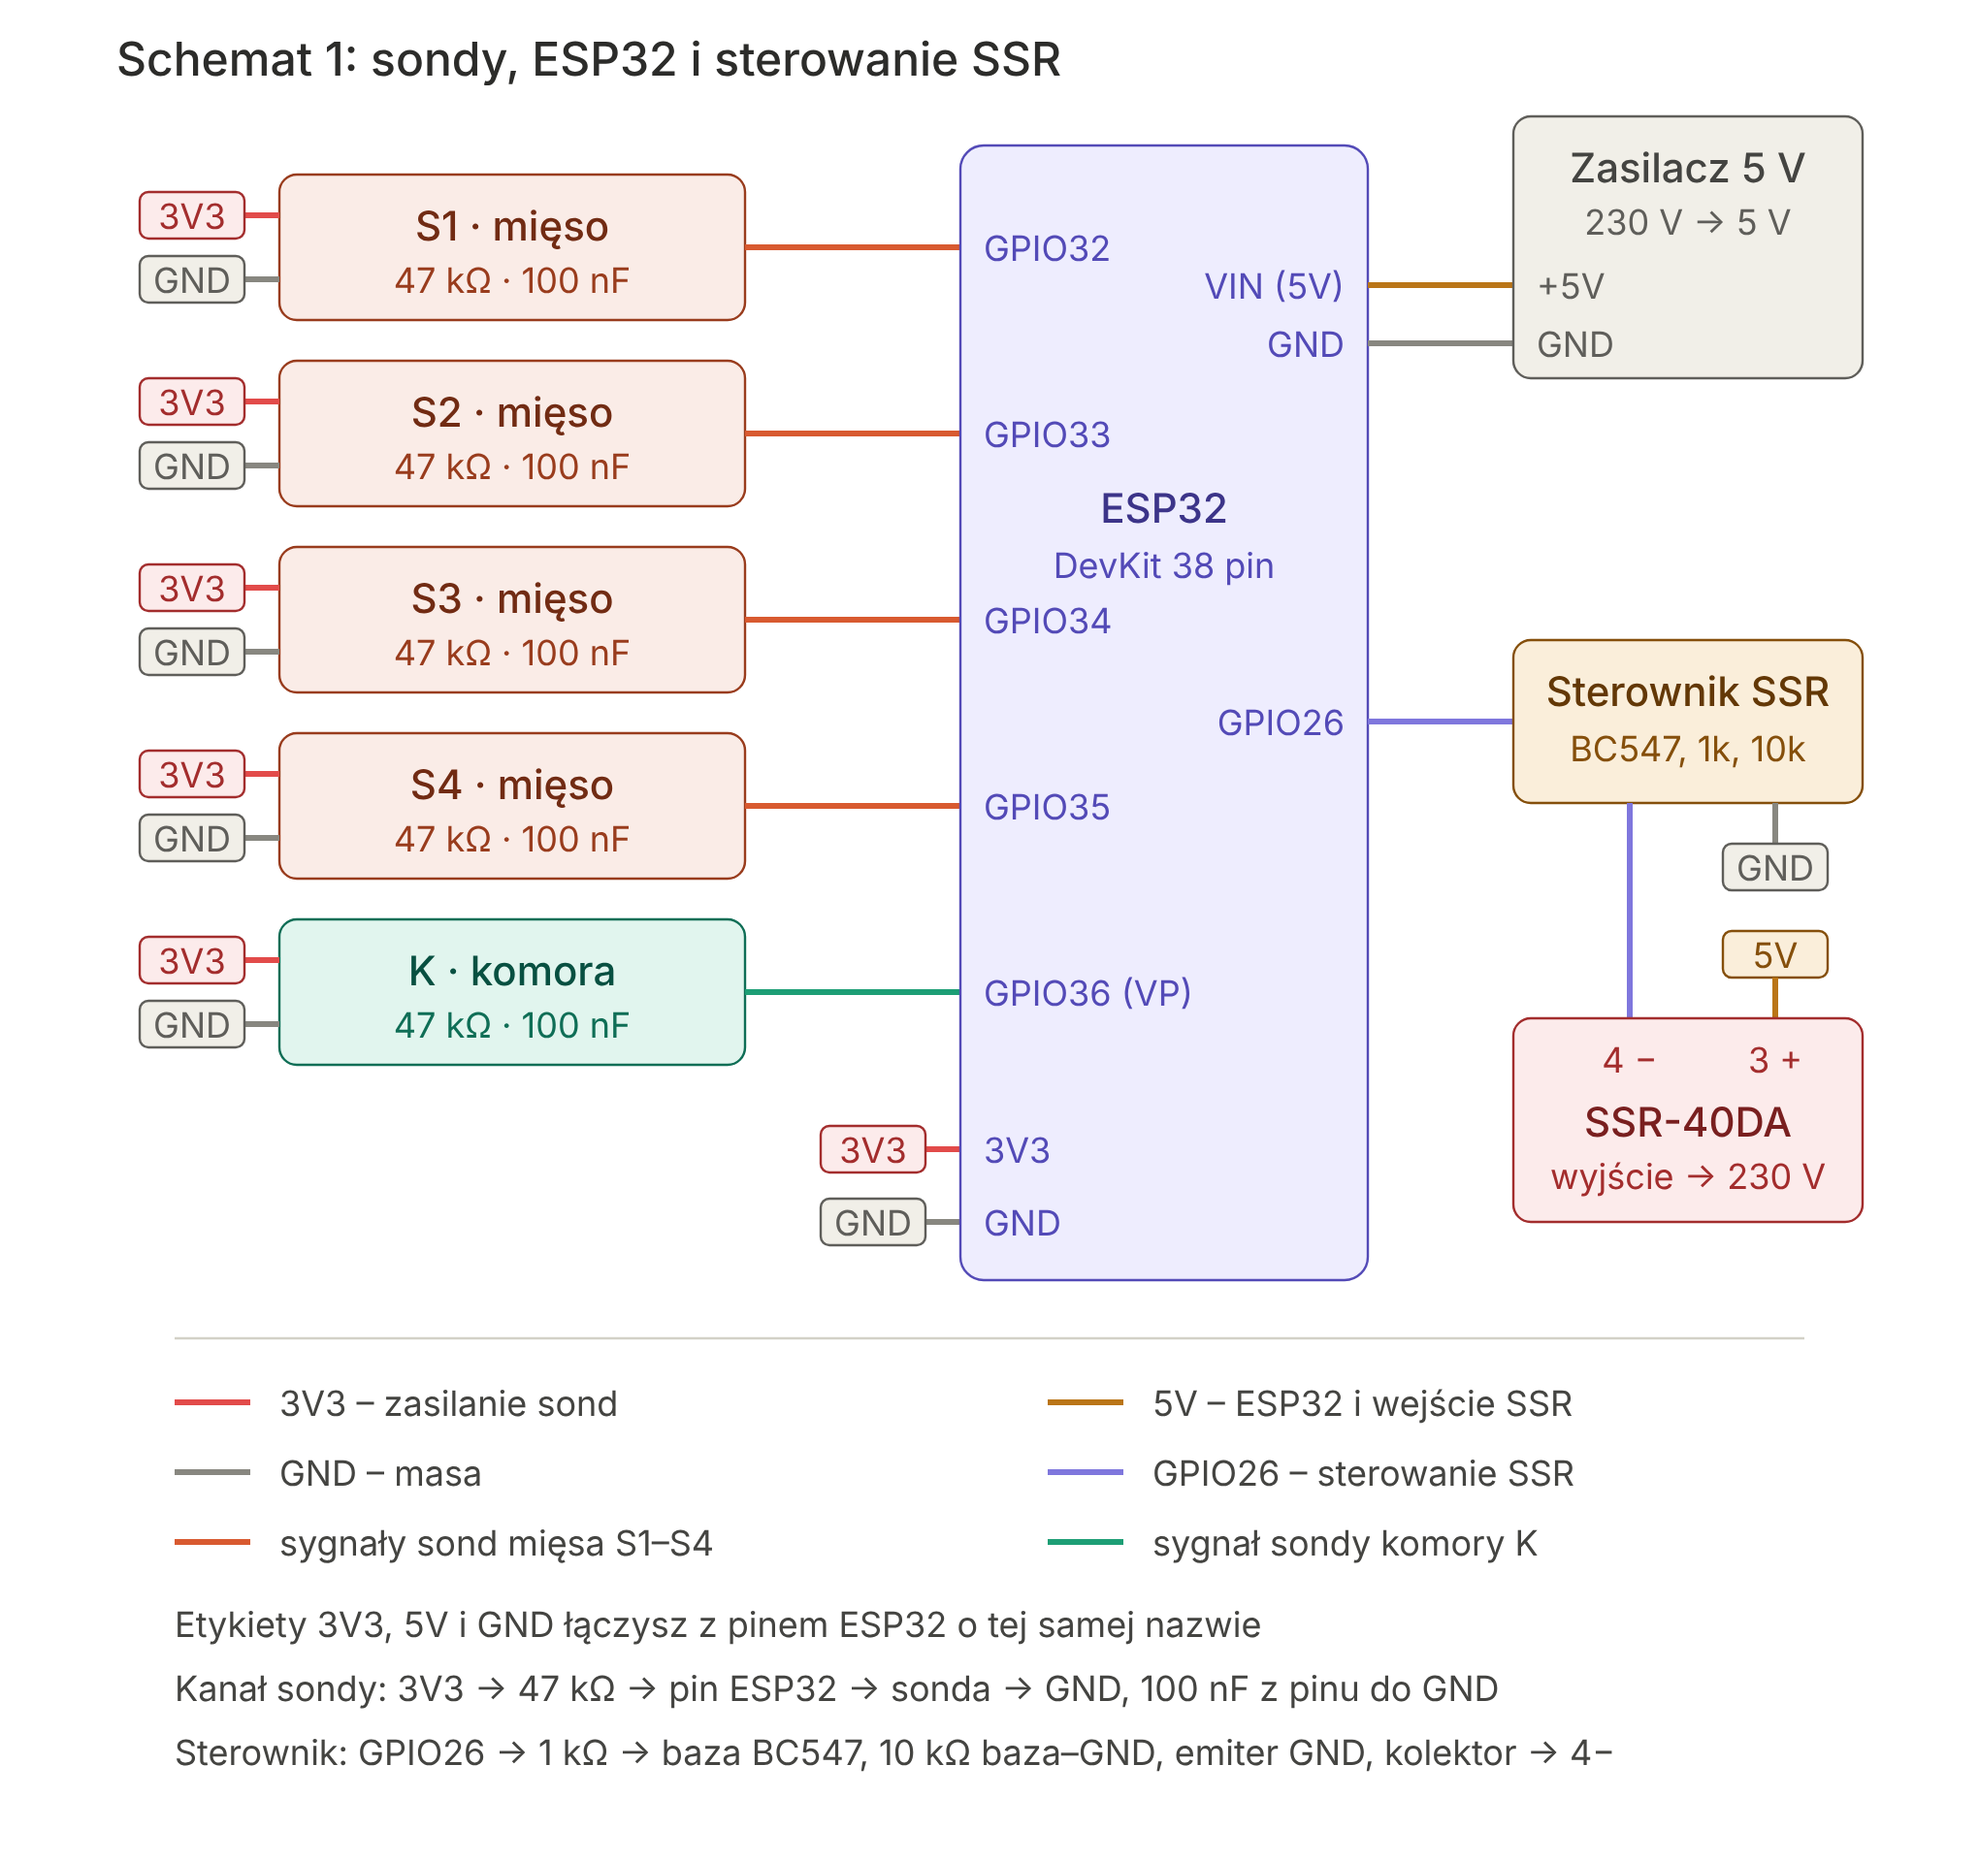
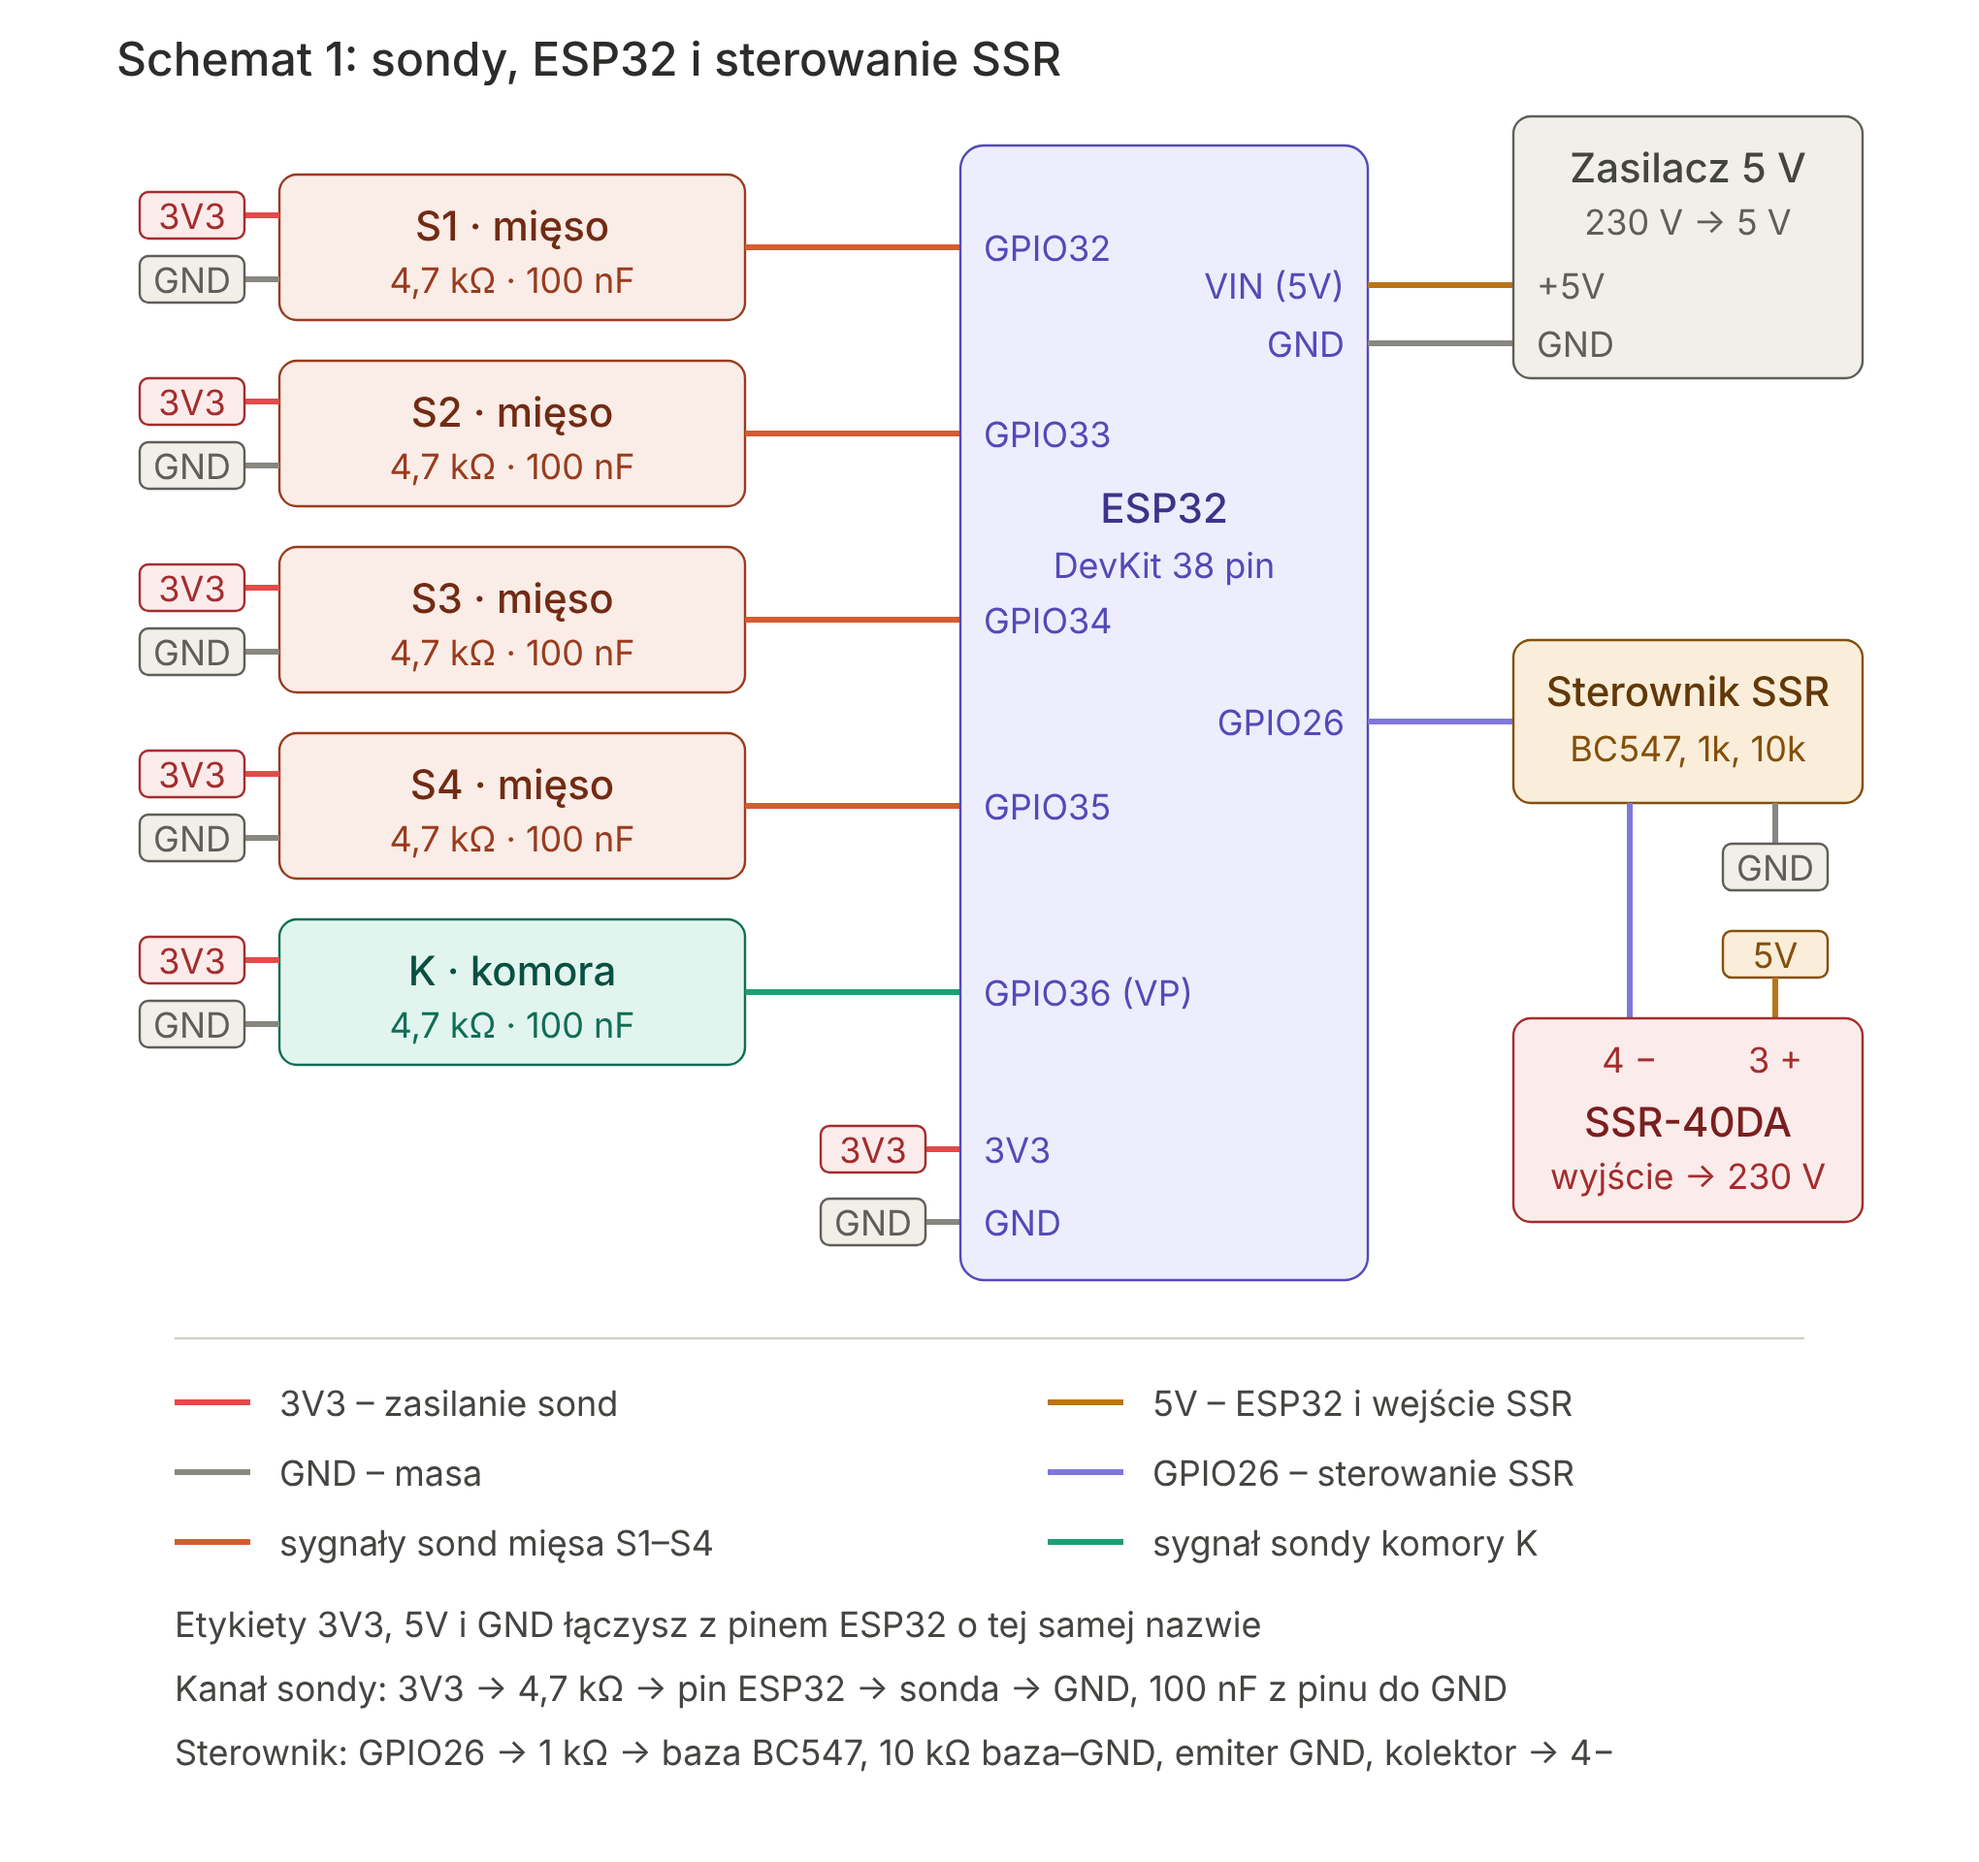
Sondy NTC 10 kΩ / B 3435: rezystory 4,7 kΩ i nowa krzywa domyślna
Claude-Session: https://claude.ai/code/session_018uVMYKUCZqiDbj1nTW6sfr

diff --git a/index.html b/index.html
@@ -894,7 +894,7 @@ function calPoint(t){
 $$('[data-cal]').forEach(function(b){ b.onclick = function(){ calPoint(+b.getAttribute('data-cal')); }; });
 $('#btnCalT').onclick = function(){ var t = parseFloat(String($('#calT').value).replace(',', '.')); if (isNaN(t) || t < -5 || t > 150){ $('#calMsg').textContent = 'Wpisz temperaturę od −5 do 150 °C.'; return; } calPoint(t); };
 $('#btnCalReset').onclick = function(){
-  confirmBox('Przywrócić kalibrację fabryczną?', 'Wszystkie sondy wrócą do krzywej 100 kΩ / B 3950.', 'Przywróć', 'bad').then(function(ok){
+  confirmBox('Przywrócić kalibrację fabryczną?', 'Wszystkie sondy wrócą do krzywej domyślnej (NTC 10 kΩ, B 3435).', 'Przywróć', 'bad').then(function(ok){
     if (ok) api('/api/cal?reset=1').then(function(r){ $('#calMsg').textContent = r.msg; loadCal(); }, function(){});
   });
 };

diff --git a/README.md b/README.md
@@ -2,7 +2,7 @@
 
 Sterownik wędzarni na ESP32 i aplikacja na tablet z Androidem:
 
-- 4 sondy mięsa i 1 sonda komory (NTC, np. Sonoff MPS01),
+- 4 sondy mięsa i 1 sonda komory (NTC 10 kΩ / B 3435, np. sondy zgodne z ThermoPro),
 - regulacja temperatury komory grzałką 230 V przez przekaźnik SSR,
 - automatyczny koniec: gdy mięso dojdzie do zadanej temperatury, ESP32 wyłącza grzałkę, a tablet daje alarm,
 - podgląd na żywo, wykres z całego procesu (do 12 h), szacowany czas dojścia do celu.
@@ -17,9 +17,9 @@ Sterowanie odbywa się w ESP32. Tablet tylko wyświetla i zmienia ustawienia, wi
 | Część | Ilość | Uwagi |
 |---|---|---|
 | ESP32 DevKit (WROOM-32, 38 pin) | 1 | przy słabym WiFi przy wędzarni: wersja WROOM-32U z anteną zewnętrzną |
-| Sonda Sonoff MPS01 | 5 | sprzedawane po 2 szt. |
+| Sonda NTC 10 kΩ / B 3435 (zgodna z ThermoPro) | 5 | wtyk jack, przewód w oplocie stalowym |
 | Gniazdo jack do sondy | 5 | dopasuj średnicę do wtyku sondy |
-| Rezystor 47 kΩ 1% | 5 | patrz „Dobór rezystora” |
+| Rezystor 4,7 kΩ 1% | 5 | patrz „Dobór rezystora” |
 | Kondensator 100 nF | 5 | |
 | Tranzystor BC547 (albo 2N2222) | 1 | |
 | Rezystory 1 kΩ i 10 kΩ | po 1 | sterownik SSR |
@@ -46,7 +46,7 @@ Sterowanie odbywa się w ESP32. Tablet tylko wyświetla i zmienia ustawienia, wi
 | Sterownik SSR | GPIO26 |
 | Zasilanie | VIN (5 V), GND |
 
-**Kanał sondy (5×):** 3V3 → 47 kΩ → pin ESP32 → sonda → GND, kondensator 100 nF między pinem a GND.
+**Kanał sondy (5×):** 3V3 → 4,7 kΩ → pin ESP32 → sonda → GND, kondensator 100 nF między pinem a GND.
 
 **Sterownik SSR:** GPIO26 → 1 kΩ → baza BC547, 10 kΩ baza–GND (grzałka zostaje wyłączona przy starcie ESP32), emiter → GND, kolektor → SSR 4 (−), SSR 3 (+) → 5 V.
 
@@ -58,8 +58,8 @@ Termik jest konieczny. Uszkodzony SSR zwykle zwiera na stałe, a wtedy tylko ter
 
 Zmierz multimetrem rezystancję sondy w temperaturze pokojowej:
 
-- ok. 100 kΩ → 47 kΩ (domyślnie),
-- ok. 1 MΩ → 470 kΩ i zmień `R_FIX` w programie,
+- ok. 10 kΩ (12 kΩ w 20 °C) → 4,7 kΩ (domyślnie),
+- ok. 100 kΩ → 47 kΩ, ok. 1 MΩ → 470 kΩ; zmień wtedy `R_FIX`, `NTC_R25` i `NTC_BETA` w programie,
 - kilka Ω → to termopara, ten układ się nie nada.
 
 Zasada: rezystor ≈ połowa rezystancji sondy w 25 °C. Wtedy pomiar działa od zimnego mięsa z lodówki do ok. 130 °C w komorze.
